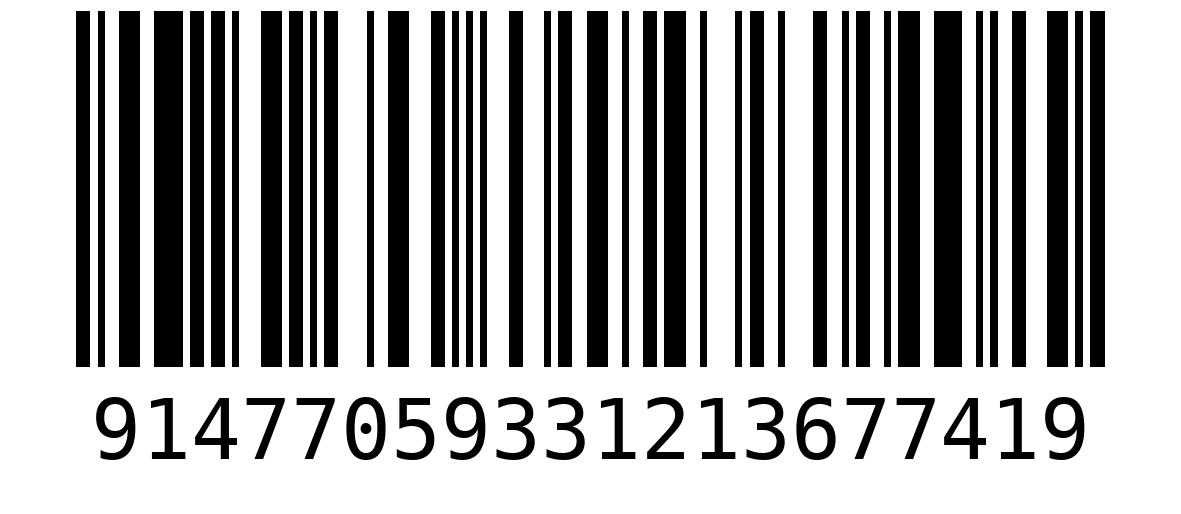
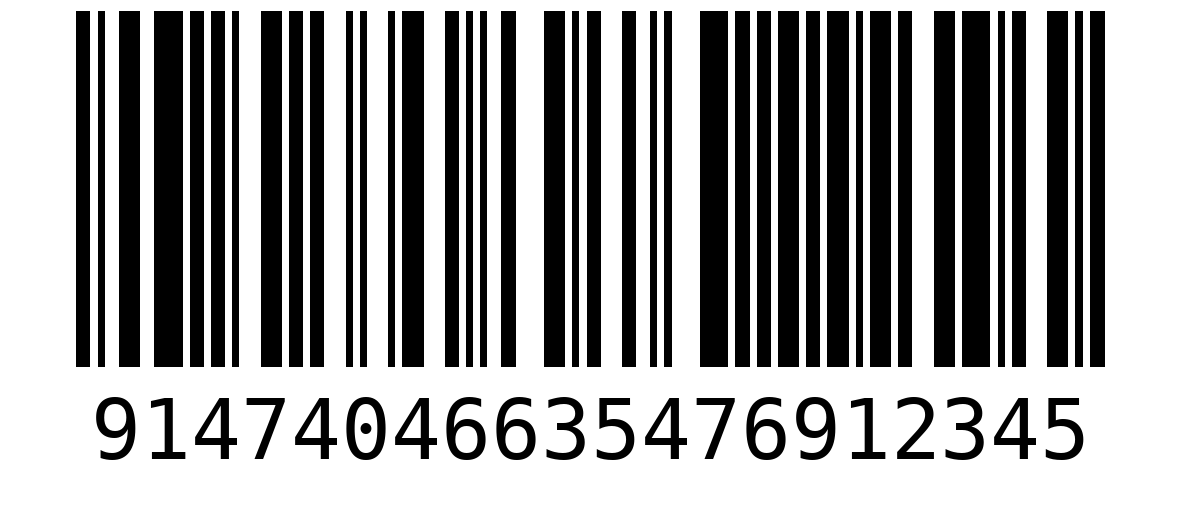
choose coupon

diff --git a/bot_fersal.py b/bot_fersal.py
@@ -8,6 +8,8 @@ import mongo
 import menu
 import time
 import json
+
+import use_or_not
 from ShovarFromMongo import ShovarFromMongo
 from Shovar import Shovar
 import generate_barcode
@@ -19,8 +21,10 @@ con.login(appSet.user, appSet.password)
 
 bot = telebot.TeleBot(appSet.botToken)
 
+message_ids = {}
+global_shovar = []
+
 def scan_mail(call):
-    message_ids = {}
     ten_bis = read_mail_ten_bis.convert_ten_bis_mail_to_shovar(con)
     for shovar in ten_bis:
         if(mongo.check_if_exist(shovar.code)):
@@ -58,6 +62,7 @@ def handle_command_adminwindow(message):
 
 @bot.callback_query_handler(func=lambda call: True)
 def handle_query(call):
+    local_shovar = []
     if (call.data.startswith("coupon")):
         bot.edit_message_text(chat_id=call.message.chat.id,
                          text="בחר סכום",
@@ -70,45 +75,38 @@ def handle_query(call):
 
     if (call.data.startswith("two_hundred")):
         barcode = mongo.find_barcode("200.00")
-        if None == barcode:
-            bot.reply_to(call.message, "לא קיים קופון בסכום הזה")
-        else:
-            new_shovar = convert_mongo_to_shovar(barcode)
-            new_file = generate_barcode.generate_barcode(new_shovar.code)
-            bot.send_photo(chat_id=call.message.chat.id, photo=new_file)
+        find_or_not(barcode, call, local_shovar, 200)
     if (call.data.startswith("hundred")):
         barcode = mongo.find_barcode("100.00")
-        if None == barcode:
-            bot.reply_to(call.message, "לא קיים קופון בסכום הזה")
-        else:
-            new_shovar = convert_mongo_to_shovar(barcode)
-            new_file = generate_barcode.generate_barcode(new_shovar.code)
-            bot.send_photo(chat_id=call.message.chat.id, photo=new_file)
+        find_or_not(barcode, call, local_shovar, 100)
     if (call.data.startswith("fifty")):
         barcode = mongo.find_barcode("50.00")
-        if None == barcode:
-            bot.reply_to(call.message, "לא קיים קופון בסכום הזה")
-        else:
-            new_shovar = convert_mongo_to_shovar(barcode)
-            new_file = generate_barcode.generate_barcode(new_shovar.code)
-            bot.send_photo(chat_id=call.message.chat.id, photo=new_file)
+        find_or_not(barcode, call, local_shovar, 50)
     if (call.data.startswith("forty")):
         barcode = mongo.find_barcode("40.00")
-        if None == barcode:
-            bot.reply_to(call.message, "לא קיים קופון בסכום הזה")
-        else:
-            new_shovar = convert_mongo_to_shovar(barcode)
-            new_file = generate_barcode.generate_barcode(new_shovar.code)
-            bot.send_photo(chat_id=call.message.chat.id, photo=new_file)
+        find_or_not(barcode, call, local_shovar, 40)
     if (call.data.startswith("thirty")):
         barcode = mongo.find_barcode("30.00")
-        if None == barcode:
-            bot.reply_to(call.message, "לא קיים קופון בסכום הזה")
-        else:
-            new_shovar = convert_mongo_to_shovar(barcode)
-            new_file = generate_barcode.generate_barcode(new_shovar.code)
-            bot.send_photo(chat_id=call.message.chat.id, photo=new_file)
+        find_or_not(barcode, call, local_shovar, 30)
 
+    if (call.data.startswith("Used")):
+        if call.message.chat.id in message_ids.keys():
+            message_ids[call.message.chat.id].append(call.message.message_id)
+        else:
+            message_ids[call.message.chat.id] = [call.message.message_id]
+        if(global_shovar[:1] != None):
+            mongo.update_db(global_shovar[0])
+            global_shovar.clear()
+        delete_messages(call)
+
+    if (call.data.startswith("Not Used")):
+        if call.message.chat.id in message_ids.keys():
+            message_ids[call.message.chat.id].append(call.message.message_id)
+        else:
+            message_ids[call.message.chat.id] = [call.message.message_id]
+        if (global_shovar[:1] != None):
+            global_shovar.clear()
+        delete_messages(call)
 
     if (call.data.startswith("Back")):
         bot.edit_message_text(chat_id=call.message.chat.id,
@@ -125,11 +123,35 @@ def handle_query(call):
         bot.answer_callback_query(callback_query_id=call.id, show_alert=True, text="קופון כבר קיים")
 
 
+def find_or_not(barcode, call, local_shovar, amount):
+    if None == barcode:
+        bot.answer_callback_query(callback_query_id=call.id, show_alert=True, text=f"לא קיים קופון על סך {amount}₪")
+    else:
+        local_shovar.append(convert_mongo_to_shovar(barcode))
+        global_shovar.append(local_shovar[0])
+        new_file = generate_barcode.generate_barcode(local_shovar[0].code)
+        message_id = bot.send_photo(chat_id=call.message.chat.id, photo=new_file).message_id
+        if call.message.chat.id in message_ids.keys():
+            message_ids[call.message.chat.id].append(message_id)
+        else:
+            message_ids[call.message.chat.id] = [message_id]
+        menu.use_or_not(bot, call)
+
+
 #TODO move to functions
 def convert_mongo_to_shovar(barcode):
     shovar = ShovarFromMongo.dict_to_shovar(barcode)
     new_shovar = Shovar(shovar._id, shovar.code, shovar.amount, shovar.expiry_date, shovar.is_used)
     return new_shovar
+
+
+def delete_messages(call):
+    for message_id in message_ids[call.message.chat.id]:
+        bot.delete_message(call.message.chat.id, message_id)
+    message_ids.clear()
+
+def delete_message(call, message_id):
+    bot.delete_message(call.message.chat.id, message_id)
 
 
 bot.infinity_polling()

diff --git a/menu.py b/menu.py
@@ -3,7 +3,7 @@ from telebot import types
 def menu():
     markup = types.InlineKeyboardMarkup()
 
-    barcode = (types.InlineKeyboardButton(text="קופון", callback_data="coupon"))
+    barcode = (types.InlineKeyboardButton(text="קופונים", callback_data="coupon"))
     scan = (types.InlineKeyboardButton(text="סרוק", callback_data="scan"))
     close = (types.InlineKeyboardButton(text="סגור", callback_data="close"))
     markup.row(barcode, scan)
@@ -23,3 +23,17 @@ def coupon_menu():
     markup.row(fifty, forty, thirty)
     markup.row(back)
     return markup
+
+def yes_or_not():
+    markup = types.InlineKeyboardMarkup()
+
+    yes = (types.InlineKeyboardButton(text="כן, השתמשתי", callback_data="Used"))
+    no = (types.InlineKeyboardButton(text="לא", callback_data="Not Used"))
+    markup.row(no, yes)
+    return markup
+
+def use_or_not(bot, call):
+    bot.send_message(chat_id=call.message.chat.id,
+                          text="האם השתמשת בקופון?",
+                          reply_markup=yes_or_not(),
+                          parse_mode='HTML')

diff --git a/use_or_not.py b/use_or_not.py
@@ -1,0 +1,16 @@
+import menu
+import mongo
+
+def use_or_not(bot, call, barcode):
+    bot.send_message(chat_id=call.message.chat.id,
+                          text="האם השתמשת בקופון?",
+                          reply_markup=menu.yes_or_not(),
+                          parse_mode='HTML')
+    if (call.data.startswith("Used")):
+        mongo.update_db(barcode)
+    if (call.data.startswith("Not Used")):
+        bot.edit_message_text(chat_id=call.message.chat.id,
+                              text="בחר סכום",
+                              message_id=call.message.message_id,
+                              reply_markup=menu.coupon_menu(),
+                              parse_mode='HTML')

diff --git a/mongo.py b/mongo.py
@@ -21,3 +21,8 @@ def find_barcode(amount):
         return None
     else:
         return result
+
+def update_db(shovar):
+    myquery  = mycol.find_one({"_id": shovar.code})
+    new_value = {"$set": {"is_used": True}}
+    mycol.update_one(myquery, new_value)
